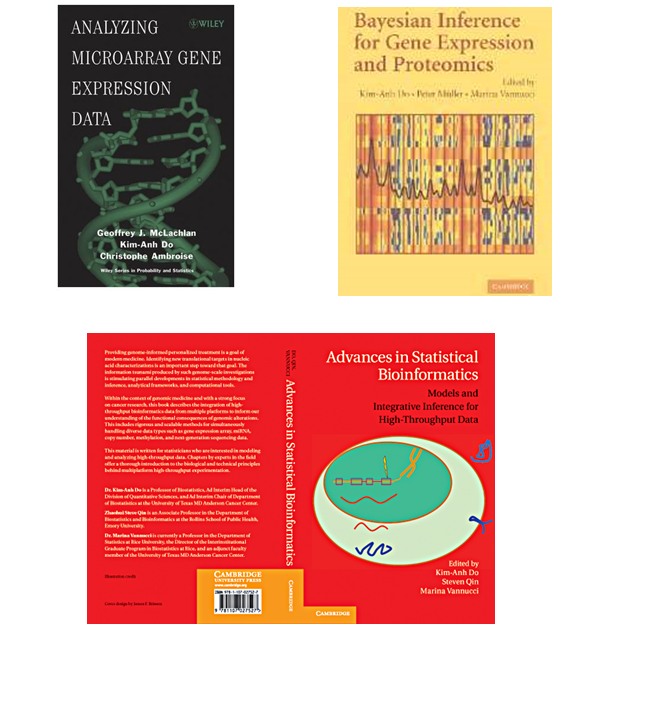
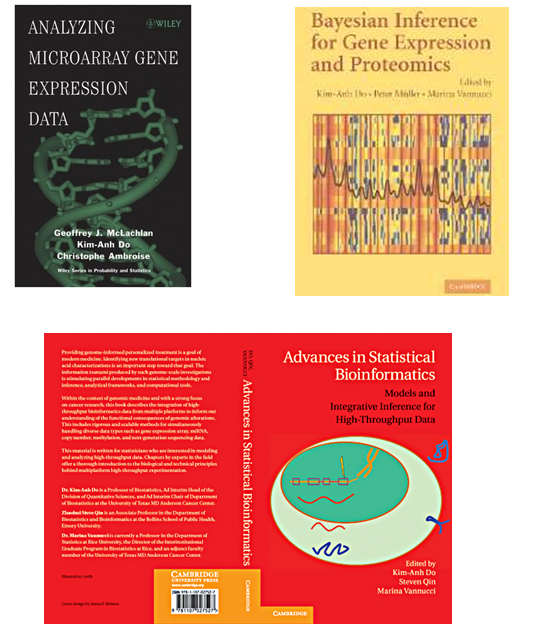
Update

diff --git a/_includes/archive-single.html b/_includes/archive-single.html
@@ -17,13 +17,13 @@
         <img src="{{ teaser | relative_url }}" alt="">
       </div>
     {% endif %}
-    <h6 class="archive__item-title no_toc" itemprop="headline">
+    <h5 class="archive__item-title no_toc" itemprop="headline">
       {% if post.link %}
         <a href="{{ post.link }}">{{ title }}</a>
       {% else %}
         <a href="{{ post.url | relative_url }}" rel="permalink">{{ title }}</a>
       {% endif %}
-    </h6>
+    </h5>
     {% include page__meta.html type=include.type %}
     {% if post.excerpt %}<p class="archive__item-excerpt" itemprop="description">{{ post.excerpt | markdownify | strip_html | truncate: 250 }}</p>{% endif %}
   </article>

diff --git a/assets/css/main.scss b/assets/css/main.scss
@@ -212,7 +212,7 @@ body {
   }
   
   .position {
-    font-size: 15px;
+    font-size: 18px;
     font-weight: 700;
     color: rgb(52, 52, 52);
     margin-top: 0px;
@@ -478,7 +478,11 @@ dt2 {
 dd2 {
   grid-column-start: 2;
   font-family: -apple-system, BlinkMacSystemFont, "Roboto", "Segoe UI", "Helvetica Neue", "Lucida Grande", Arial, sans-serif;
-  font-size: 0.8em;
+  font-size: 20px;
+}
+
+p2 {
+  font-size: 20px;
 }
 
 image{

diff --git a/_sass/minimal-mistakes/_page.scss b/_sass/minimal-mistakes/_page.scss
@@ -60,7 +60,7 @@ body {
     margin-top: 1em;
     margin-left: 0;
     margin-right: 0;
-    width: 100%;
+    width: 70%;
     clear: both;
 
     .page__content,
@@ -120,10 +120,10 @@ body {
 		}
 	}
 
-  p,
+  
   li,
   dl {
-    font-size: 0.8em;
+    font-size: 20px;
   }
 
   e{

diff --git a/_sass/minimal-mistakes/_navigation.scss b/_sass/minimal-mistakes/_navigation.scss
@@ -74,7 +74,7 @@
       margin-bottom: 0.25em;
       padding: 0.5em 1em;
       font-family: $sans-serif;
-      font-size: 14px;
+      font-size: 18px;
       font-weight: bold;
       line-height: 1.5;
       text-align: center;

diff --git a/_sass/minimal-mistakes/_base.scss b/_sass/minimal-mistakes/_base.scss
@@ -203,7 +203,7 @@ figure {
   -webkit-box-pack: justify;
   justify-content: space-between;
   -webkit-box-align: start;
-  align-items: flex-start;
+  /**/align-items: flex-start;
   flex-wrap: wrap;
   margin: 2em 0;
 

diff --git a/_sass/minimal-mistakes/_archive.scss b/_sass/minimal-mistakes/_archive.scss
@@ -76,7 +76,7 @@
 
 .archive__item-excerpt {
   margin-top: 10px;
-  font-size: 0.7em; 
+  font-size: 0.8em; 
   text-align: left;
 
   & + p {

diff --git a/pages/about.md b/pages/about.md
@@ -3,19 +3,19 @@ permalink: /about/
 layout: "single"
 author_profile: true
 ---
-<div style="display: flex; margin-bottom: -15%;">
-    <figure class="left" style="flex: 4; padding-right: 10px;">
+<div style="display: flex; margin-bottom: -50px;">
+    <figure class="left" style="flex: 5;">
         <img src="{{ site.url }}/assets/images/researchTheme.JPG" alt="">
     </figure>
     <figure class="right" style="flex: 3;">
         <img src="{{ site.url }}/assets/images/books.JPG" alt="">
     </figure>
 </div>
-
-<div style="margin-bottom: 1.5em; margin-top: 2em;">
+<div style="width: 1000px;">
 <details>
 <summary><h2 style="display:inline;">About Me</h2></summary>
-<p style="margin-top:1em;">
+<p2>
+<br>
 Dr. Kim-Anh Do, Ph.D., is a distinguished figure in the realm of biostatistics and cancer research.<br>
 She earned combined degrees in mathematics and computer science from the University of Queensland <br> 
 (First Class Honors) in 1983, and won the Caltex Woman of the Year Award to pursue
@@ -30,7 +30,7 @@ Her impact is further evident through her vital roles as the primary statisticia
 With significant publications in various domains, her most recent research endeavors focus on developing clustering and analytical methods for genomic, proteomic, and microbiome expressions. <br>
 Dr. Do has also made substantial contributions through the development of bioinformatics software and the authoring of 3 relevant books. <br> <br>
 Her unwavering commitment to statistical, medical, and cancer research is evident through her portfolio of over 260 published articles, a testament to her lasting impact on the field. 
-</p>
+</p2>
 </details>
 </div>
 

diff --git a/pages/splash-page.md b/pages/splash-page.md
@@ -90,7 +90,7 @@ feature_row3:
     url: "https://www.frontiersin.org/articles/10.3389/frai.2022.876100/full" 
 
 ---
-<div class="center" style="max-width: 800px; font-size: 1.1em;">
+<div class="center" style="max-width: 800px; font-size: 20px;">
 <p style="text-align: center">
 Dr. Kim-Anh Do and her dedicated research team are at the forefront of cutting-edge development in <br/> 
 <b>COmputational Statistics, Biology, and Oncology (COSBO).</b> <br/>

diff --git a/pages/people.md b/pages/people.md
@@ -268,7 +268,7 @@ layout: splash
                 <img class="team-img" src="../assets/images/mahmoodG.JPG">
               </div>
               <p class="text-blk name" style="margin-top:1em;">
-                Seyyed Mahmood Ghasemi
+                Seyyed Mahmood Ghasemi, Ph.D.
               </p>
               <p class="text-blk position" style="margin-top:-1em;">
                 Postdoctoral Fellow
